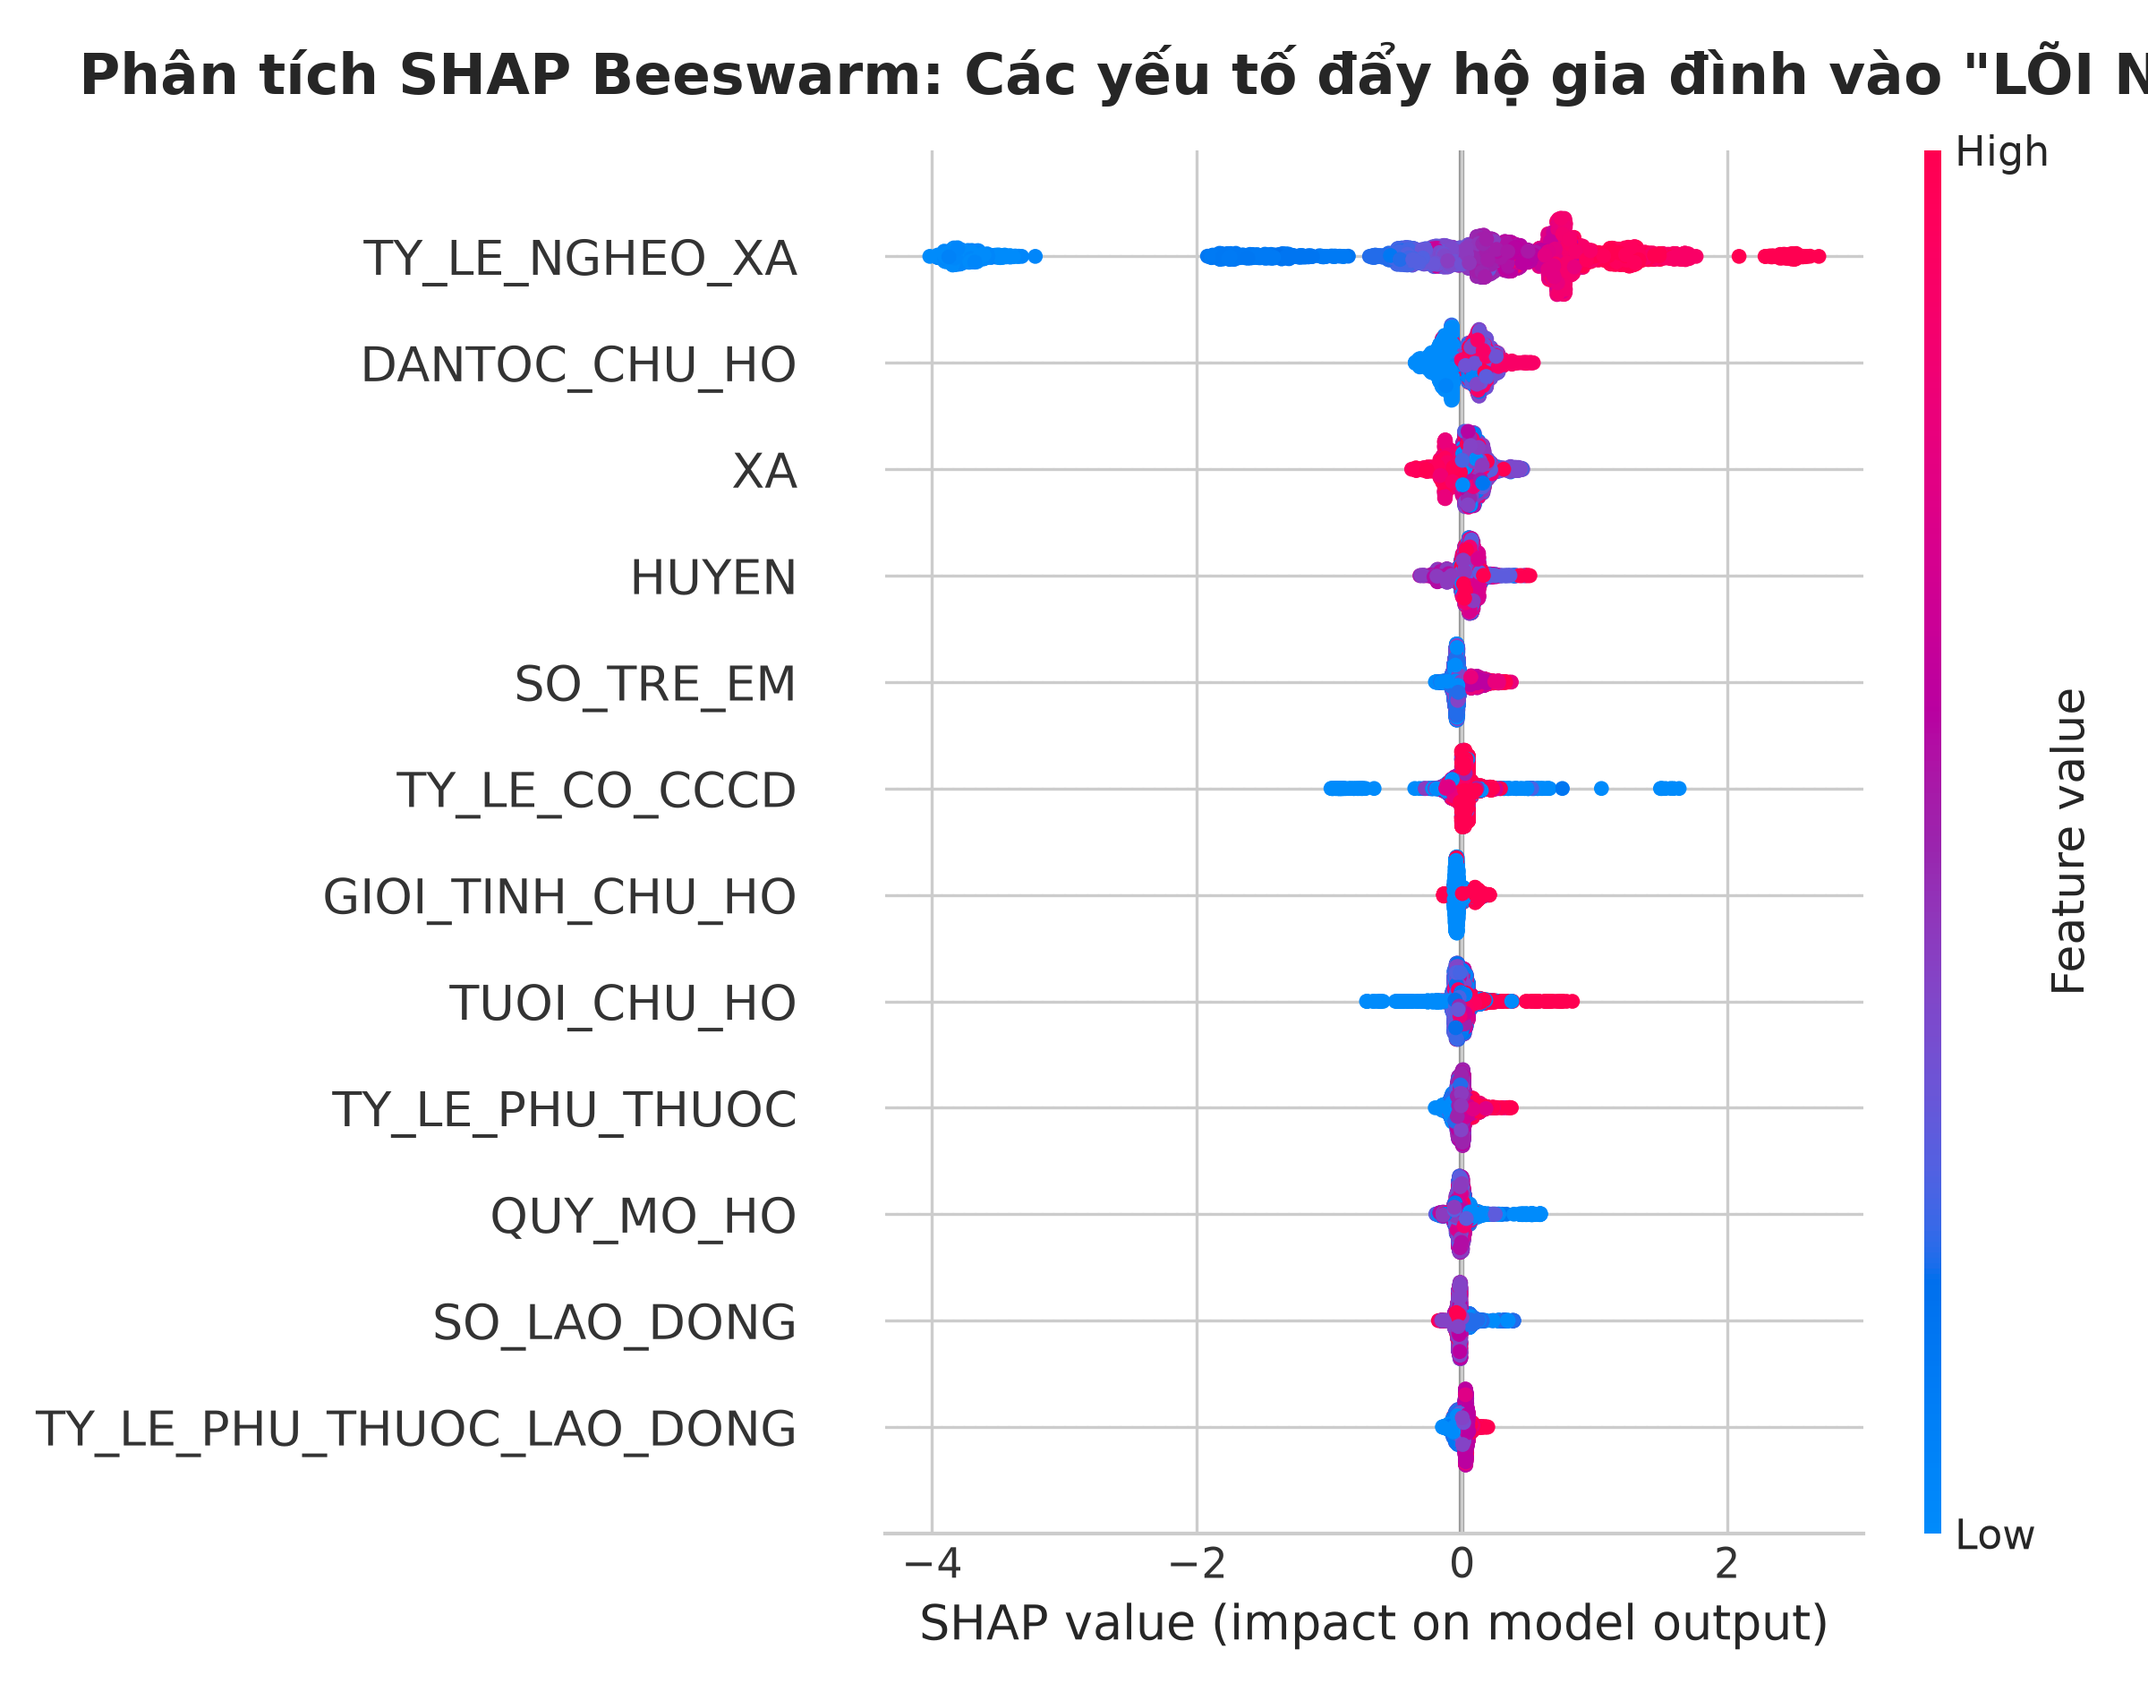
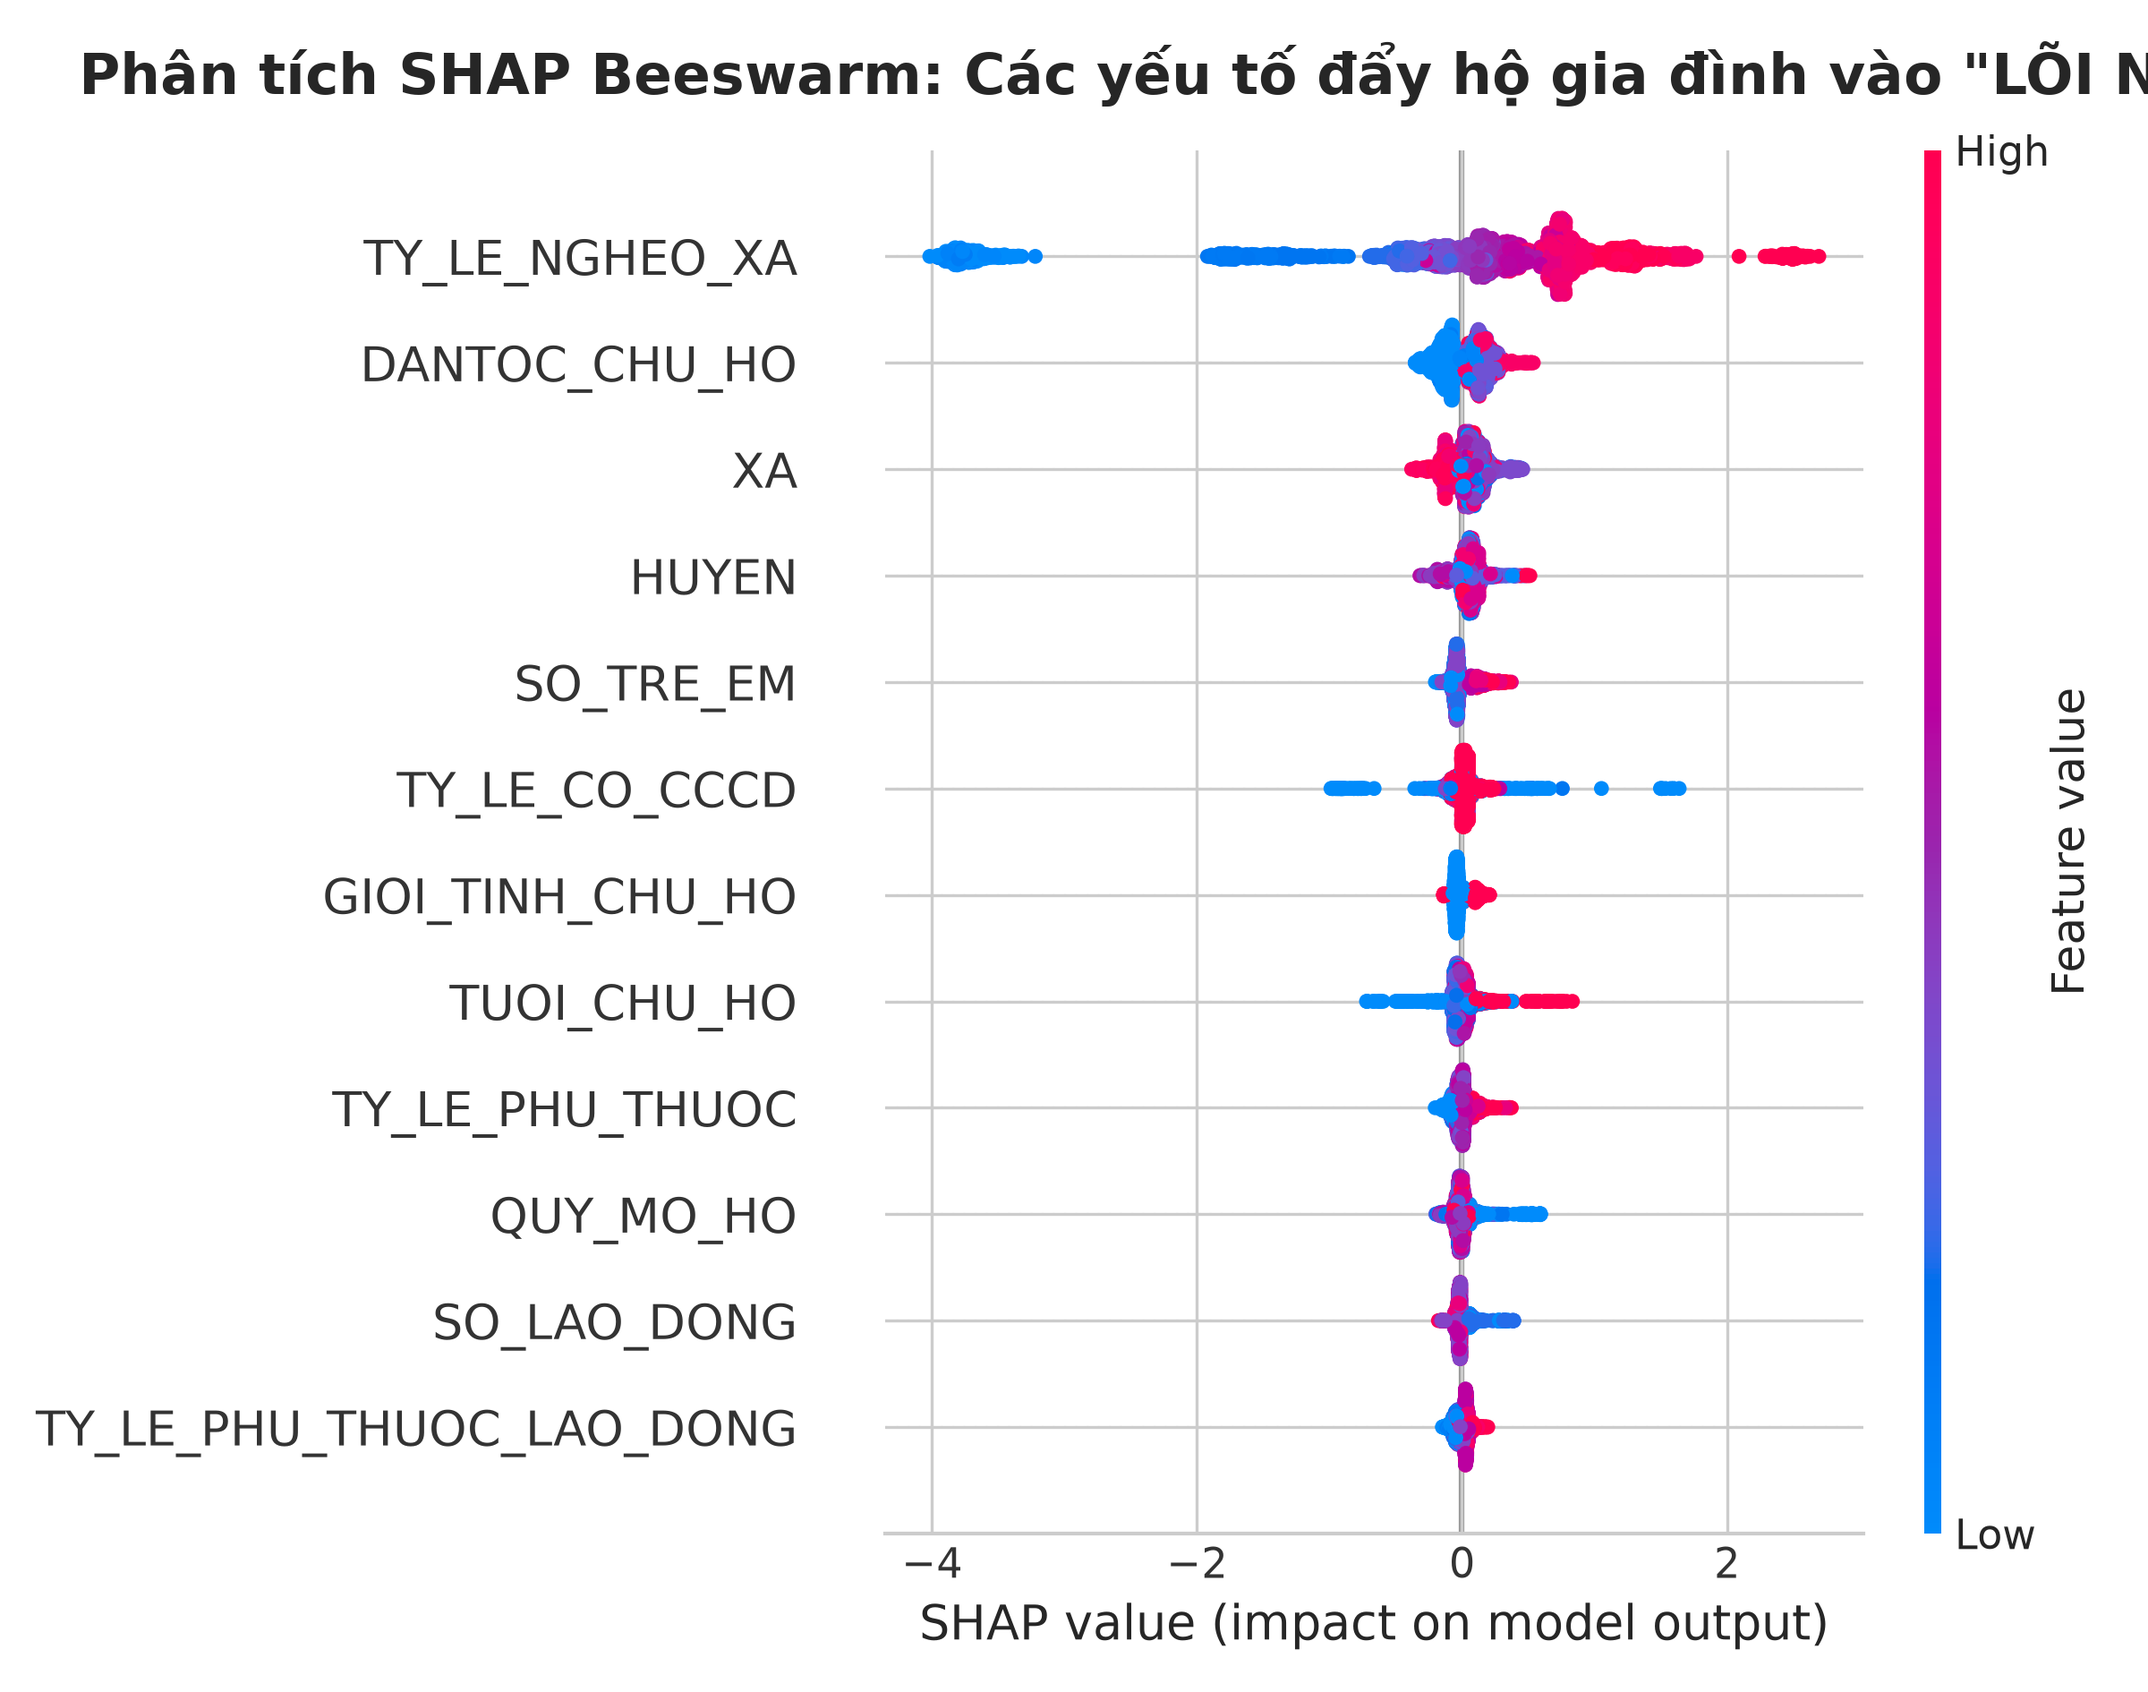
feat: add Dak Nong poverty prediction ML notebook and visualization dashboard

diff --git a/Code/1_Dak_Mil.py b/Code/1_Dak_Mil.py
@@ -182,7 +182,7 @@ def process_dakmil_ultimate_fix(input_filepath, output_filepath):
 
 if __name__ == "__main__":
     input_file = r"Dữ liệu chuẩn hóa\CẬP NHẬT 20.9.2023\HUYỆN DAK MIL.xlsx" 
-    output_dir = "Cleaned_Data_All"
+    output_dir = "Cleaned_Data_Master"
     os.makedirs(output_dir, exist_ok=True)
     output_file = os.path.join(output_dir, "HUYỆN DAK MIL_CLEANED.xlsx")
     
